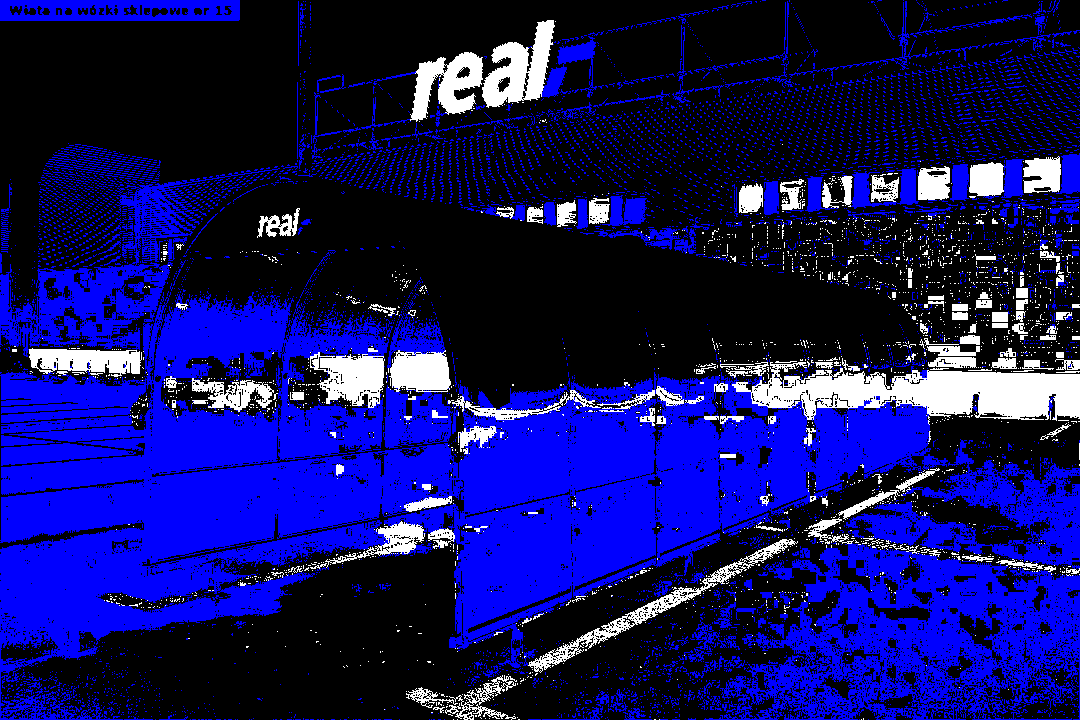
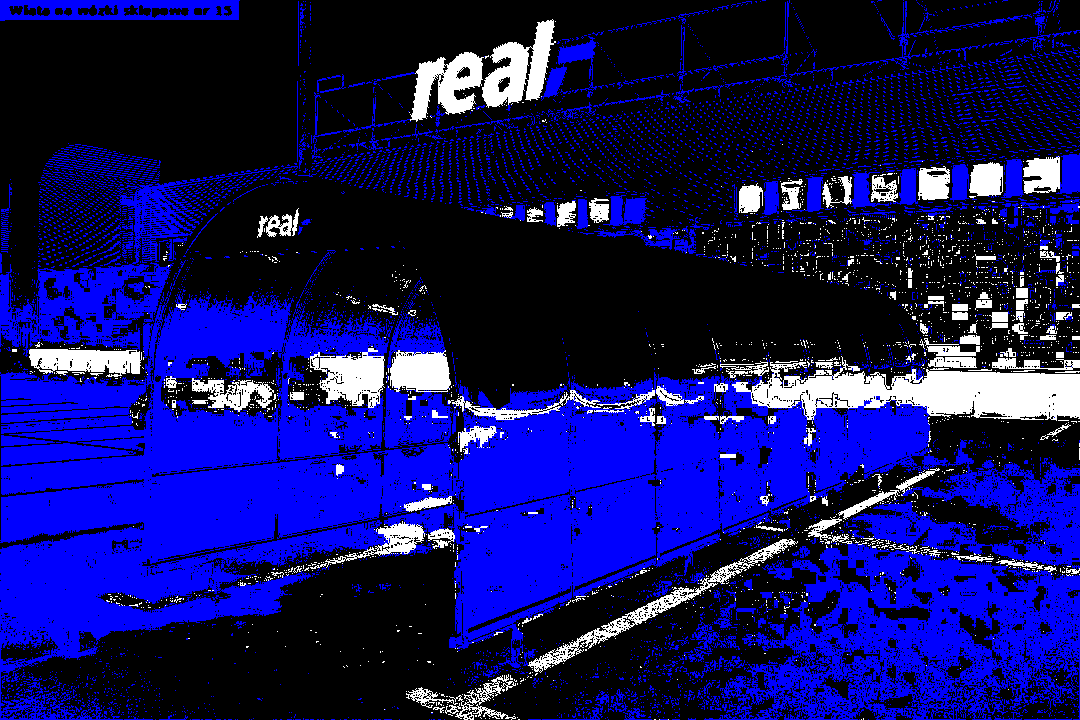
Fix parameters

diff --git a/POBR-REAL/src/Zielinski/Kamil/Model/Finder.java b/POBR-REAL/src/Zielinski/Kamil/Model/Finder.java
@@ -37,6 +37,13 @@ public class Finder
         Set<Segment> segments = new SegmentsCreator().process(pixels);
         for (Segment segment : segments)
 		{
+        	if(segment.getPoints().contains(new Point(260,236)))
+        	{
+        		for (Point point : segment.getPoints())
+				{
+					System.out.println("x: "+point.x +"  y: "+point.y);
+				}
+        	}
 			System.out.println("Points : x1-" +segment.heightInterval()._1+" x2-"+segment.heightInterval()._2 +" y1-"+segment.widthInterval()._1+" y2-"+segment.widthInterval()._2);
 		}
         //System.out.println(""+sourcePixels[0].length + " "+sourcePixels.length);

diff --git a/POBR-REAL/src/Zielinski/Kamil/Model/SegmentsCreator.java b/POBR-REAL/src/Zielinski/Kamil/Model/SegmentsCreator.java
@@ -22,18 +22,10 @@ public class SegmentsCreator
 				if (pixels[i][j] != Pixel.BLACK)
 				{
 					Segment seg = extractSegment(pixels, i, j);
-					if (seg.getPoints().size() > 20 && seg.getPoints().size() < 0.2 * size)
+					if (seg.getPoints().size() > 14 && seg.getPoints().size() < 0.2 * size)
 						segments.add(seg);
 				}
-				if (j == 272 && i == 221)
-				{
-					x = 1;
-				}
 			}
-		}
-		if (x == 1)
-		{
-			System.out.println("Size: " + segments.size());
 		}
 		return segments;
 	}

diff --git a/POBR-REAL/src/Zielinski/Kamil/Model/ErosionMaker.java b/POBR-REAL/src/Zielinski/Kamil/Model/ErosionMaker.java
@@ -4,9 +4,9 @@ public class ErosionMaker
 {
 	private static final boolean[][] DEFAULT_KERNEL = new boolean[][]
 	{
-			{ false, true, true },
-			{ true, false, true },
-			{ true, true, false} 
+			{ false, true, false },
+			{ false, false, false },
+			{ false, true, false} 
 	};
 
 	Pixel[][] erode(Pixel[][] source)

diff --git a/POBR-REAL/src/Zielinski/Kamil/Model/test.java b/POBR-REAL/src/Zielinski/Kamil/Model/test.java
@@ -11,7 +11,7 @@ public class test
 
 	public static void main(String[] args)
 	{
-		String imageName = "l2.jpg";
+		String imageName = "l21.jpg";
 		BufferedImage image = new ImageReader().getImage(imageName);
 //		int width = image.getWidth();
 //		int height = image.getHeight();
